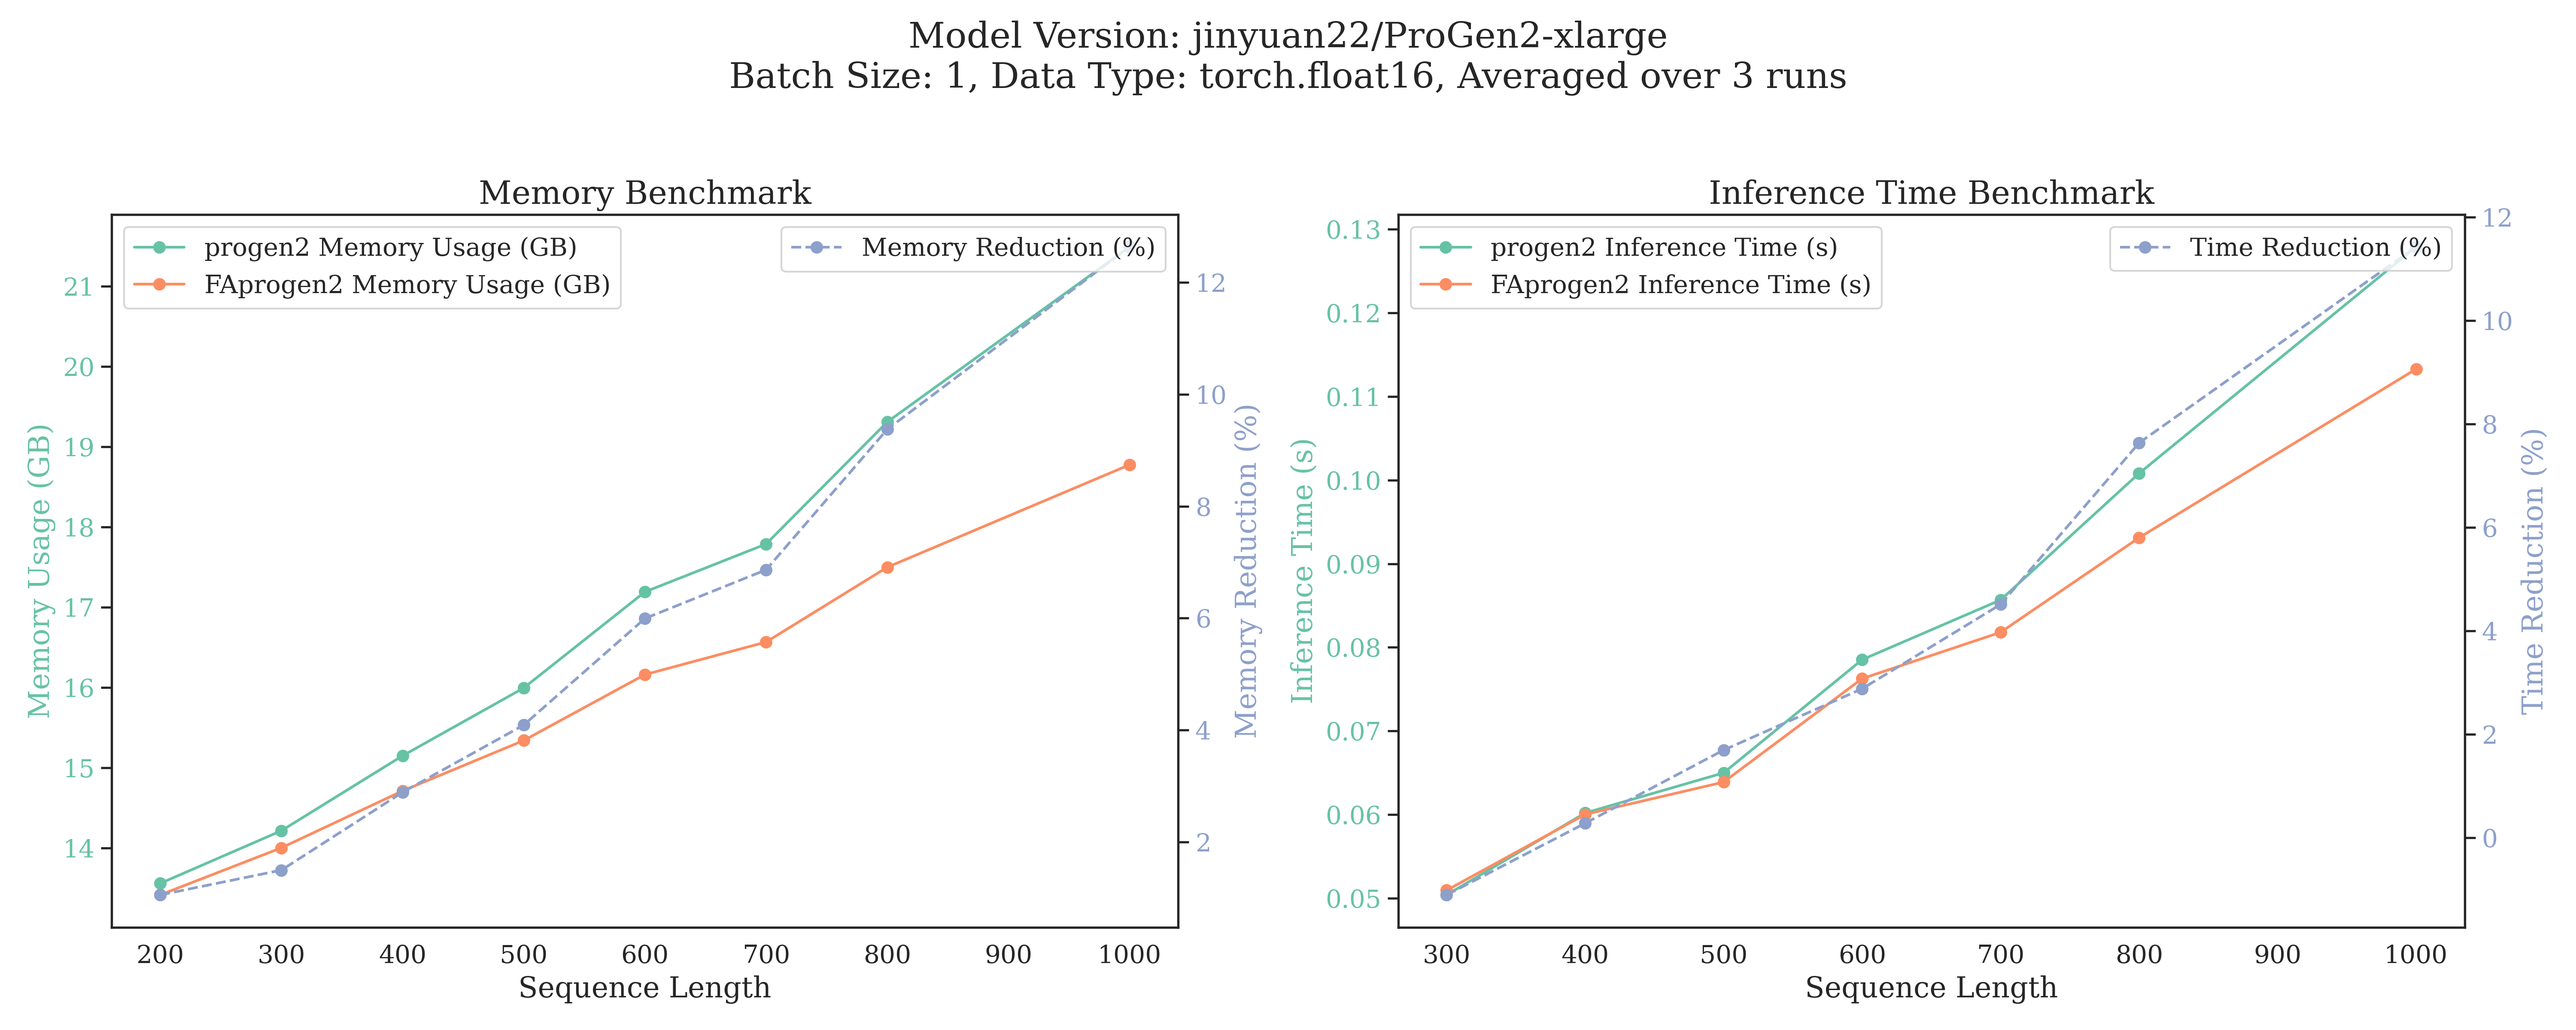
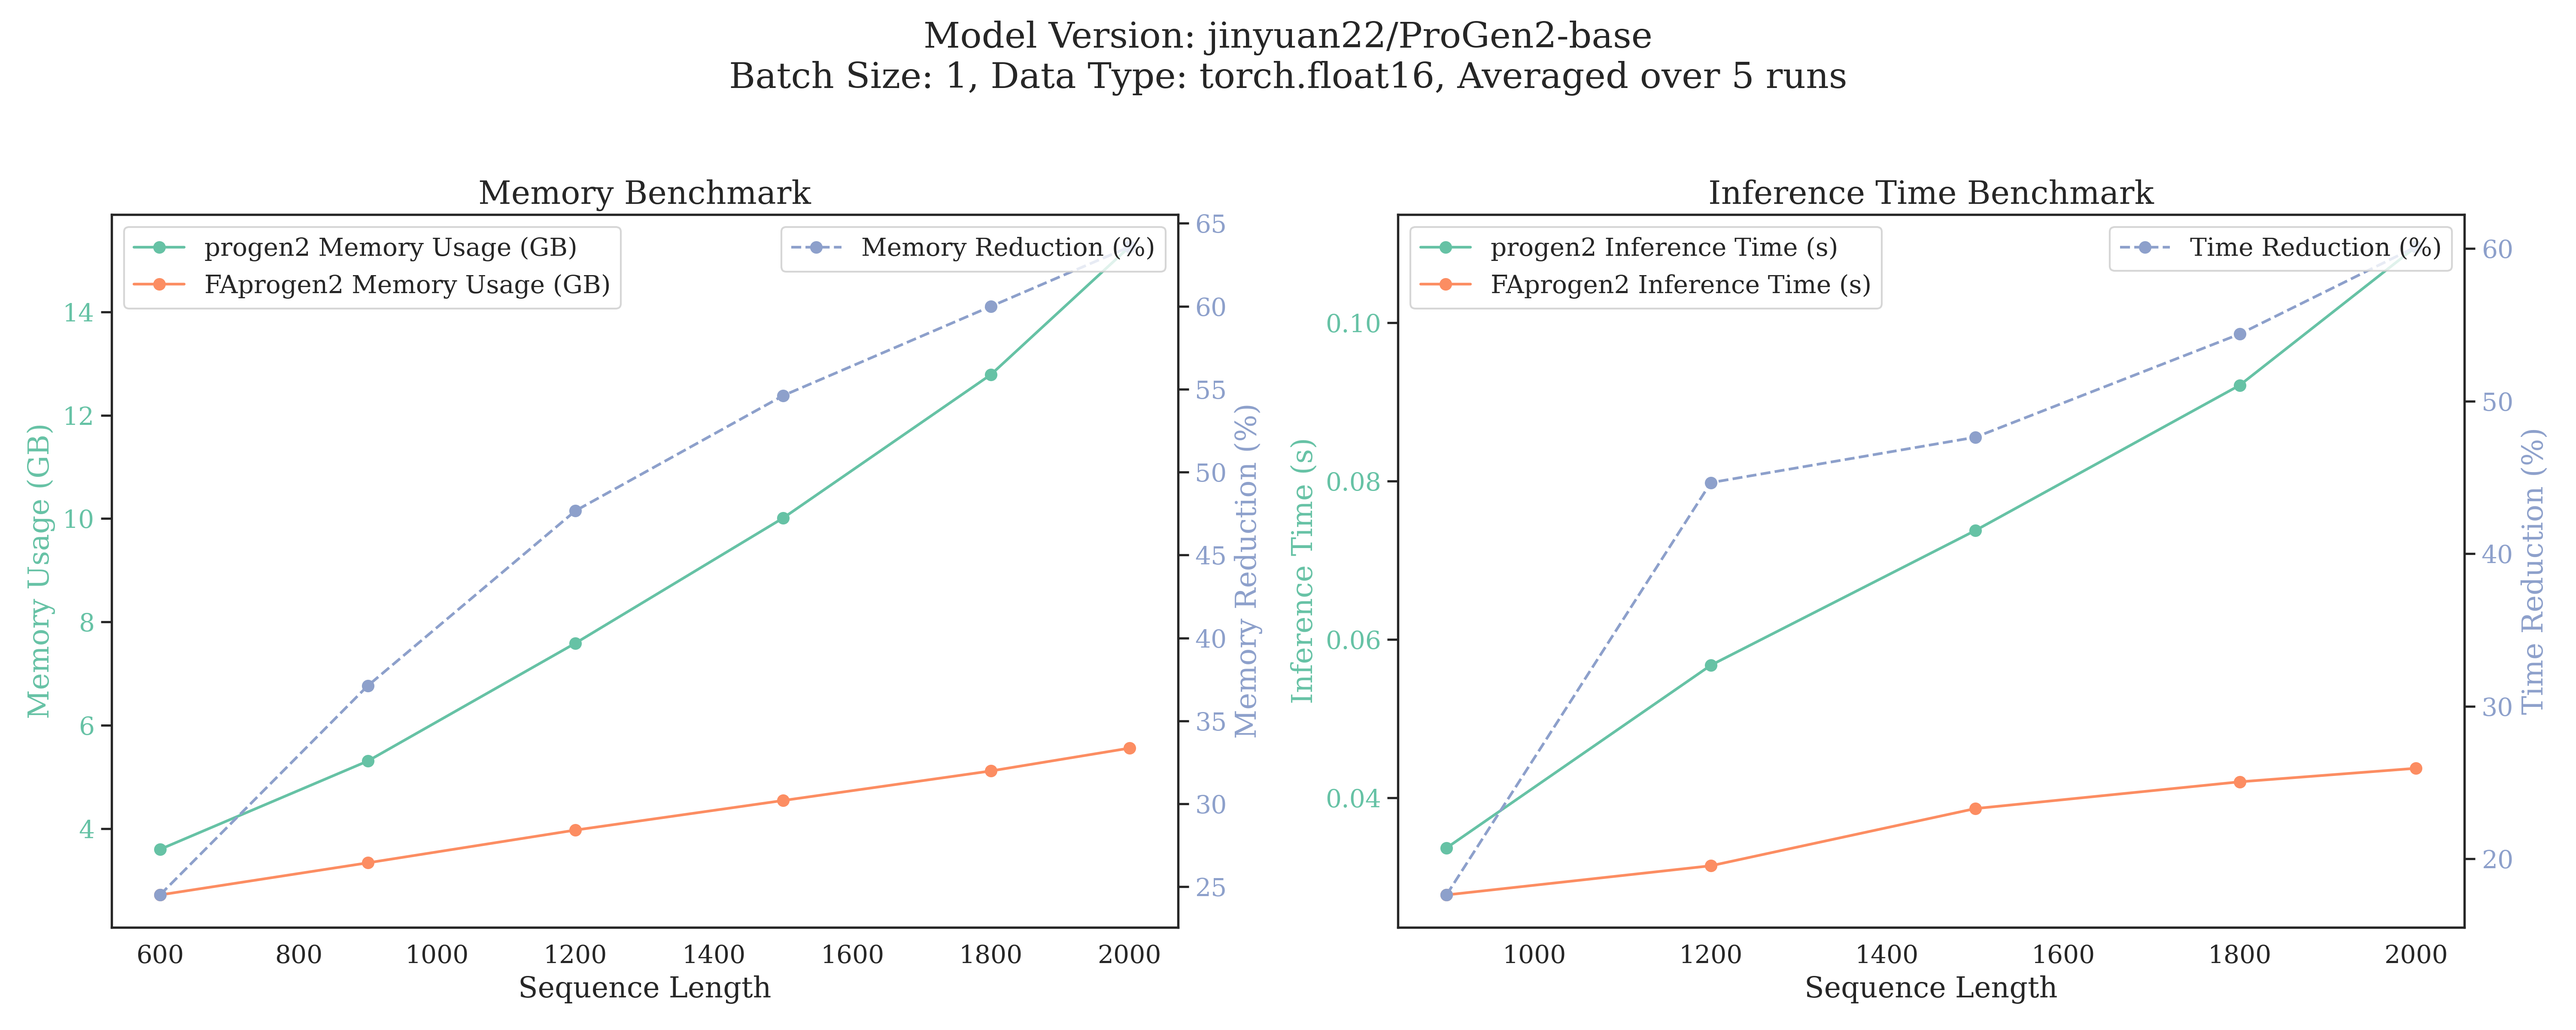
update FAprogen2

diff --git a/faesm/progen.py b/faesm/progen.py
@@ -16,8 +16,9 @@
 # Modified forward-pass implementation based on https://github.com/huggingface/transformers/blob/main/src/transformers/models/gptj/modeling_gptj.py
 
 from typing import Optional, Tuple, Union
-
+from pdb import set_trace
 import torch
+import time
 import torch.utils.checkpoint
 from torch import nn
 from torch.nn import CrossEntropyLoss
@@ -119,7 +120,7 @@ def fixed_pos_embedding(x, seq_dim=1, seq_len=None):
         .to(x.device)
         .float()
     )
-    return torch.sin(sinusoid_inp).half(), torch.cos(sinusoid_inp).half()
+    return torch.sin(sinusoid_inp), torch.cos(sinusoid_inp)
 
 
 def rotate_every_two(x):
@@ -176,7 +177,6 @@ class ProGenAttention(nn.Module):
     def _split_heads(self, x, n_head, dim_head, mp_num=4):
         reshaped = x.reshape(x.shape[:-1] + (n_head // mp_num, dim_head))
         reshaped = reshaped.reshape(x.shape[:-2] + (-1,) + reshaped.shape[-1:])
-        # x = x.rearrange("b s m (l d)-> b s (m l) d", m=mp_num, l=dim_head*n_head//mp_num, d=dim_head)
         return reshaped
 
     def _merge_heads(self, tensor, num_attention_heads, attn_head_size):
@@ -184,11 +184,9 @@ class ProGenAttention(nn.Module):
         Merges attn_head_size dim and num_attn_heads dim into n_ctx
         """
         if len(tensor.shape) == 5:
-            # tensor = tensor.permute(0, 1, 3, 2, 4).contiguous()
-            tensor = rearrange(tensor, "a b c d e -> a b d c e")
+            tensor = tensor.permute(0, 1, 3, 2, 4).contiguous()
         elif len(tensor.shape) == 4:
-            # tensor = tensor.permute(0, 2, 1, 3).contiguous()
-            tensor = rearrange(tensor, "a b c d -> a c b d")
+            tensor = tensor.permute(0, 2, 1, 3).contiguous()
         else:
             raise ValueError(
                 f"Input tensor rank should be one of [4, 5], but is: {len(tensor.shape)}"
@@ -266,6 +264,8 @@ class ProGenAttention(nn.Module):
         value = self._split_heads(
             value, self.num_attention_heads, self.head_dim, mp_num=mp_num
         )
+        # set_trace()
+
         value = value.permute(0, 2, 1, 3)
 
         seq_len = key.shape[1]
@@ -330,11 +330,6 @@ class ProGenFlashAttention2(ProGenAttention):
     def __init__(self, *args, **kwargs):
         super().__init__(*args, **kwargs)
 
-    def _split_heads(self, x, n_head, dim_head, mp_num=4):
-        return rearrange(
-            x, "b s m (l d) -> b s (m l) d", m=mp_num, l=n_head // mp_num, d=dim_head
-        )
-
     def forward(
         self,
         hidden_states: Optional[Tuple[torch.FloatTensor]],
@@ -346,27 +341,35 @@ class ProGenFlashAttention2(ProGenAttention):
         use_cache: Optional[bool] = False,
         output_attentions: Optional[bool] = False,
     ) -> Tuple[Union[torch.Tensor, Tuple[torch.Tensor]], ...]:
-        # hidden_states = hidden_states.to(torch.float16)
+        hidden_states = hidden_states.to(torch.float16)
         # B, T, C = hidden_states.size() # batch size, sequence length, embedding dimensionality (n_embd)
-
+        # set_trace()
+        t1_0 = time.time()
         qkv = self.qkv_proj(hidden_states)
+        # qkv torch.Size([1, 422, 4608])
         mp_num = 8
-        qkv_split = rearrange(
-            qkv, "b s (m d) -> b s m d", m=mp_num, d=self.embed_dim * 3 // mp_num
-        )
-
+        qkv_split = qkv.reshape(qkv.shape[:-1] + (mp_num, -1))
+        # qkv_split torch.Size([1, 422, 8, 576])
         local_dim = self.head_dim * self.num_attention_heads // mp_num
         query, value, key = torch.split(qkv_split, local_dim, dim=-1)
-
+        # query torch.Size([1, 422, 8, 192])
         query = self._split_heads(
             query, self.num_attention_heads, self.head_dim, mp_num=mp_num
         )
+        # query torch.Size([1, 422, 16, 96]) # B, T, H, D
+
         key = self._split_heads(
             key, self.num_attention_heads, self.head_dim, mp_num=mp_num
         )
+
         value = self._split_heads(
             value, self.num_attention_heads, self.head_dim, mp_num=mp_num
         )
+        t1_1 = time.time()
+        print(f"qkv_split: {t1_1 - t1_0}")
+
+        t2_1 = time.time()
+        value = value.permute(0, 2, 1, 3)
 
         seq_len = key.shape[1]
         offset = 0
@@ -393,6 +396,9 @@ class ProGenFlashAttention2(ProGenAttention):
             key = apply_rotary_pos_emb(key, sincos, offset=offset)
             query = apply_rotary_pos_emb(query, sincos, offset=offset)
 
+        key = key.permute(0, 2, 1, 3)
+        query = query.permute(0, 2, 1, 3)
+
         if layer_past is not None:
             past_key = layer_past[0]
             past_value = layer_past[1]
@@ -403,25 +409,43 @@ class ProGenFlashAttention2(ProGenAttention):
             present = (key, value)
         else:
             present = None
+        t2_2 = time.time()
+        print(f"rotary_pos_emb: {t2_2 - t2_1}")
 
+        t3_1 = time.time()
         attn_output = flash_attn_func(
-            query,
-            key,
-            value,
+            query.half().permute(0, 2, 1, 3),
+            key.half().permute(0, 2, 1, 3),
+            value.half().permute(0, 2, 1, 3),
             dropout_p=self.attn_dropout.p,
             causal=True,
         )
+        t3_2 = time.time()
+        print(f"flash_attn_func: {t3_2 - t3_1}")
 
-        attn_output = rearrange(attn_output, "a b c d -> a c b d")
+        t4_1 = time.time()
+        attn_output = attn_output.permute(0, 2, 1, 3)
         attn_output = self._merge_heads(
             attn_output, self.num_attention_heads, self.head_dim
         )
-        attn_output = self.resid_dropout(self.out_proj(attn_output))
+        attn_output = self.out_proj(attn_output)
+        attn_output = self.resid_dropout(attn_output)
 
         outputs = (attn_output, present)
         if output_attentions:
             outputs += (None,)
+        t4_2 = time.time()
+        print(f"merge_heads: {t4_2 - t4_1}")
 
+        print("\n\n")
+
+        t_full = t4_2 - t1_0
+        print(f"split ratio: {(t1_1 - t1_0) / t_full}")
+        print(f"rotary_pos_emb ratio: {(t2_2 - t2_1) / t_full}")
+        print(f"flash_attn_func ratio: {(t3_2 - t3_1) / t_full}")
+        print(f"merge_heads ratio: {(t4_2 - t4_1) / t_full}")
+
+        breakpoint()
         return outputs
 
 
@@ -451,9 +475,11 @@ class ProGenBlock(nn.Module):
         super().__init__()
         inner_dim = config.n_inner if config.n_inner is not None else 4 * config.n_embd
         self.ln_1 = nn.LayerNorm(config.n_embd, eps=config.layer_norm_epsilon)
-        self.attn = ProGenFlashAttention2(
-            config
-        )  # if FLASH_ATTN_AVAILABLE else ProGenAttention(config)
+        self.attn = (
+            ProGenFlashAttention2(config)
+            if FLASH_ATTN_AVAILABLE
+            else ProGenAttention(config)
+        )
         self.mlp = ProGenMLP(inner_dim, config)
 
     def forward(

diff --git a/tests/benchmark_faprogen2.py b/tests/benchmark_faprogen2.py
@@ -10,7 +10,6 @@ from faesm.progen2 import ProGenForCausalLM as FAProGenForCausalLM
 from tests.progen2 import ProGenForCausalLM
 
 
-
 # Set Seaborn theme and professional settings
 sns.set_theme(style="white")  # Remove grid by using "white"
 color_palette = sns.color_palette("Set2")  # Professional color palette
@@ -28,16 +27,14 @@ plt.rcParams.update(
     }
 )
 
+
 def generate_random_protein_sequences(mini_length, max_length):
     import random
+
     """Generate random protein sequences."""
     length = random.randint(mini_length, max_length)
-    return "".join(
-        [
-            random.choice("ACDEFGHIKLMNPQRSTVWY")
-            for _ in range(length)
-        ]
-    )
+    return "".join([random.choice("ACDEFGHIKLMNPQRSTVWY") for _ in range(length)])
+
 
 def benchmark_torch_memory(f, *args, **kwargs):
     torch.cuda.reset_peak_memory_stats()
@@ -59,18 +56,21 @@ def benchmark_inference_time(f, *args, **kwargs):
     "model_version,dtype,max_seq_lengths,repeats",
     [
         (
-            "jinyuan22/ProGen2-xlarge",
+            "jinyuan22/ProGen2-base",
             torch.float16,
-            [200, 300, 400, 500, 600, 700, 800, 1000],
-            3,
+            [600, 900, 1200, 1500, 1800, 2000],
+            5,
         )
     ],
 )
 def test_progen2_vs_faprogen2_benchmark(model_version, dtype, max_seq_lengths, repeats):
     tokenizer = AutoTokenizer.from_pretrained(model_version)
-    device = "cuda" if torch.cuda.is_available() else "cpu"
+    device1 = "cuda" if torch.cuda.is_available() else "cpu"
+    # device2 = "cuda:1" if torch.cuda.is_available() else "cpu"
 
-    progen2 = ProGenForCausalLM.from_pretrained(model_version).to(dtype).to("cpu").eval()
+    progen2 = (
+        ProGenForCausalLM.from_pretrained(model_version).to(dtype).to("cpu").eval()
+    )
     fa_progen2 = (
         FAProGenForCausalLM.from_pretrained(model_version).to(dtype).to("cpu").eval()
     )
@@ -79,8 +79,11 @@ def test_progen2_vs_faprogen2_benchmark(model_version, dtype, max_seq_lengths, r
     progen2_inference_times, fa_progen2_inference_times = [], []
 
     for seq_length in max_seq_lengths:
-        sequence = generate_random_protein_sequences(mini_length=seq_length-50, max_length=seq_length)
-        inputs = tokenizer(sequence, return_tensors="pt").to(device)
+        sequence = generate_random_protein_sequences(
+            mini_length=seq_length - 50, max_length=seq_length
+        )
+        inputs1 = tokenizer(sequence, return_tensors="pt").to(device1)
+        # inputs2 = tokenizer(sequence, return_tensors="pt").to(device1)
 
         progen2_memory_fold, fa_progen2_memory_fold = [], []
         progen2_time_fold, fa_progen2_time_fold = [], []
@@ -88,15 +91,17 @@ def test_progen2_vs_faprogen2_benchmark(model_version, dtype, max_seq_lengths, r
         for _ in range(repeats):
 
             def progen2_forward():
-                progen2(inputs.input_ids)
-            progen2.to(device)
+                progen2(inputs1.input_ids)
+
+            progen2.to(device1)
             progen2_memory_fold.append(benchmark_torch_memory(progen2_forward))
             progen2_time_fold.append(benchmark_inference_time(progen2_forward))
             progen2.to("cpu")
 
             def fa_progen2_forward():
-                fa_progen2(inputs.input_ids)
-            fa_progen2.to(device)
+                fa_progen2(inputs1.input_ids)
+
+            fa_progen2.to(device1)
             fa_progen2_memory_fold.append(benchmark_torch_memory(fa_progen2_forward))
             fa_progen2_time_fold.append(benchmark_inference_time(fa_progen2_forward))
             fa_progen2.to("cpu")
@@ -118,13 +123,17 @@ def test_progen2_vs_faprogen2_benchmark(model_version, dtype, max_seq_lengths, r
     fa_progen2_inference_times = fa_progen2_inference_times[1:]
 
     memory_reduction = [
-        (1 - (fa / progen2)) * 100 for fa, progen2 in zip(fa_progen2_memory_usage, progen2_memory_usage)
+        (1 - (fa / progen2)) * 100
+        for fa, progen2 in zip(fa_progen2_memory_usage, progen2_memory_usage)
     ]
     time_reduction = [
-        (1 - (fa / progen2)) * 100 for fa, progen2 in zip(fa_progen2_inference_times, progen2_inference_times)
+        (1 - (fa / progen2)) * 100
+        for fa, progen2 in zip(fa_progen2_inference_times, progen2_inference_times)
     ]
 
-    fig, axes = plt.subplots(1, 2, figsize=(20, 8))  # Larger figure for better resolution
+    fig, axes = plt.subplots(
+        1, 2, figsize=(20, 8)
+    )  # Larger figure for better resolution
 
     # Left Plot: Memory Benchmark
     ax1 = axes[0]

diff --git a/README.md b/README.md
@@ -89,12 +89,17 @@ tokenizer = AutoTokenizer.from_pretrained("jinyuan22/ProGen2-small")
[1 lines of base64/hex data omitted]
 
 inputs = tokenizer(sequence, return_tensors="pt").to(device)
-
+target = inputs.input_ids[0,...]
 with torch.no_grad():
-  logits = model(inputs.input_ids, labels=inputs.input_ids).logits
+  logits = model(inputs.input_ids, labels=inputs.input_ids).logits[0,...]
 
-logits = logits[0][:-1, ...]
-target = inputs.input_ids[0, 1:]
+logits = logits[:-1, ...]
+target = target[1:]
+
+bos_token, eos_token = 3, 4
+if target[-1] in [bos_token, eos_token]:
+    logits = logits[:-1, ...]
+    target = target[:-1]
 
 # remove unused logits
 first_token, last_token = 5, 29
